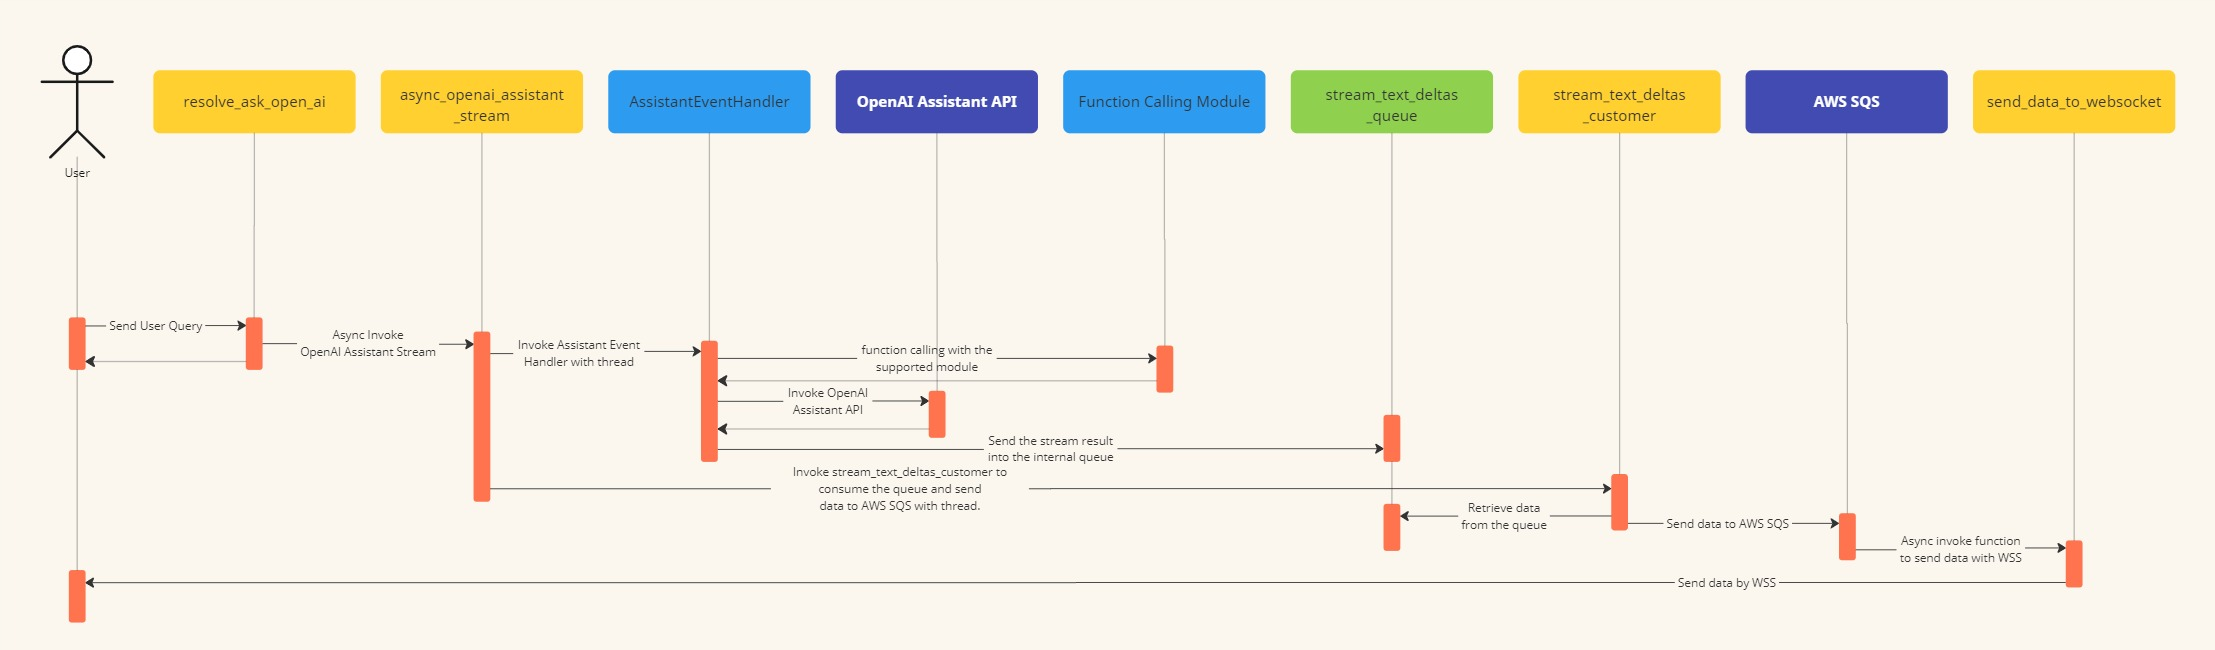
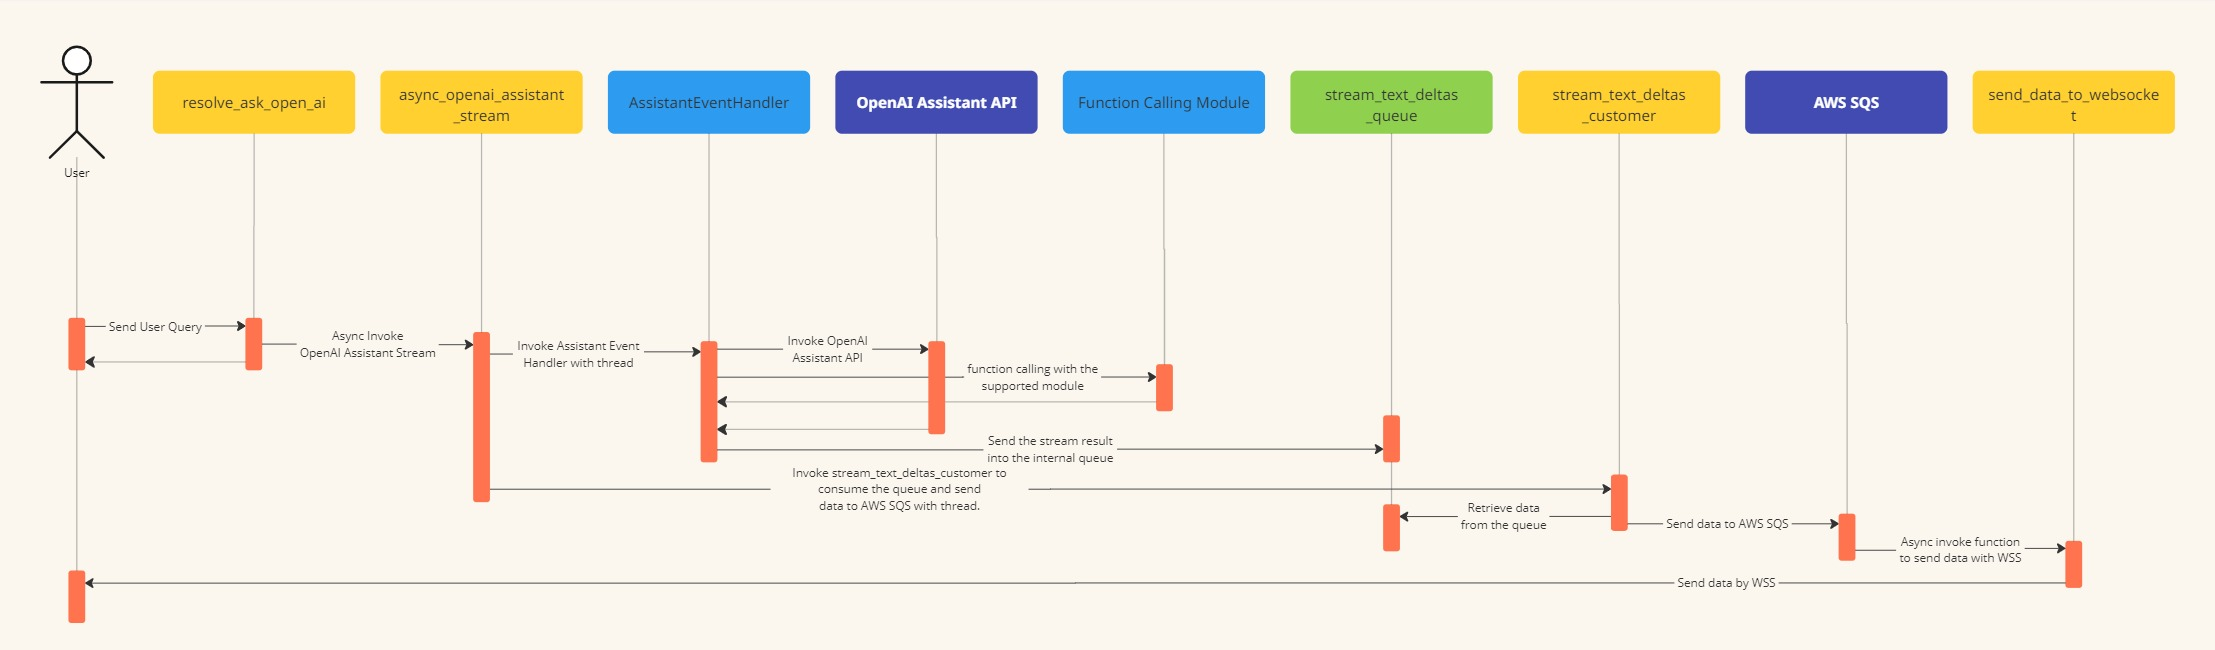
Update the sequence diagram.

diff --git a/openai_assistant_engine/handlers.py b/openai_assistant_engine/handlers.py
@@ -442,7 +442,7 @@ def batch_processing_loop(
                 logger,
                 endpoint_id,
                 connection_id,
-                {"task_done": True},
+                {"message_group_id": message_group_id, "is_message_end": True},
                 message_group_id,
                 setting,
             )
@@ -476,7 +476,14 @@ def stream_text_deltas_consumer(
         message_group_id = (
             f"{connection_id}-{str(uuid.uuid1().int >> 64)}" if connection_id else None
         )
-
+        _send_data_to_websocket(
+            logger,
+            endpoint_id,
+            connection_id,
+            {"message_group_id": message_group_id, "data_format": data_format},
+            message_group_id,
+            setting,
+        )
         # Decide which processing loop to use based on the data format
         if data_format == "json":
             json_processing_loop(

diff --git a/openai_assistant_engine/tests/test_openai_assistant_engine.py b/openai_assistant_engine/tests/test_openai_assistant_engine.py
@@ -74,6 +74,7 @@ sys.path.insert(0, "C:/Users/bibo7/gitrepo/silvaengine/openai_assistant_engine")
 sys.path.insert(1, "C:/Users/bibo7/gitrepo/silvaengine/openai_funct_base")
 sys.path.insert(2, "C:/Users/bibo7/gitrepo/silvaengine/silvaengine_dynamodb_base")
 sys.path.insert(3, "C:/Users/bibo7/gitrepo/silvaengine/silvaengine_utility")
+sys.path.insert(4, "C:/Users/bibo7/gitrepo/silvaengine/neo4j_graph_connector")
 # sys.path.insert(0, "/var/www/projects/openai_assistant_engine")
 # sys.path.insert(1, "/var/www/projects/openai_funct_base")
 # sys.path.insert(2, "/var/www/projects/silvaengine_dynamodb_base")
